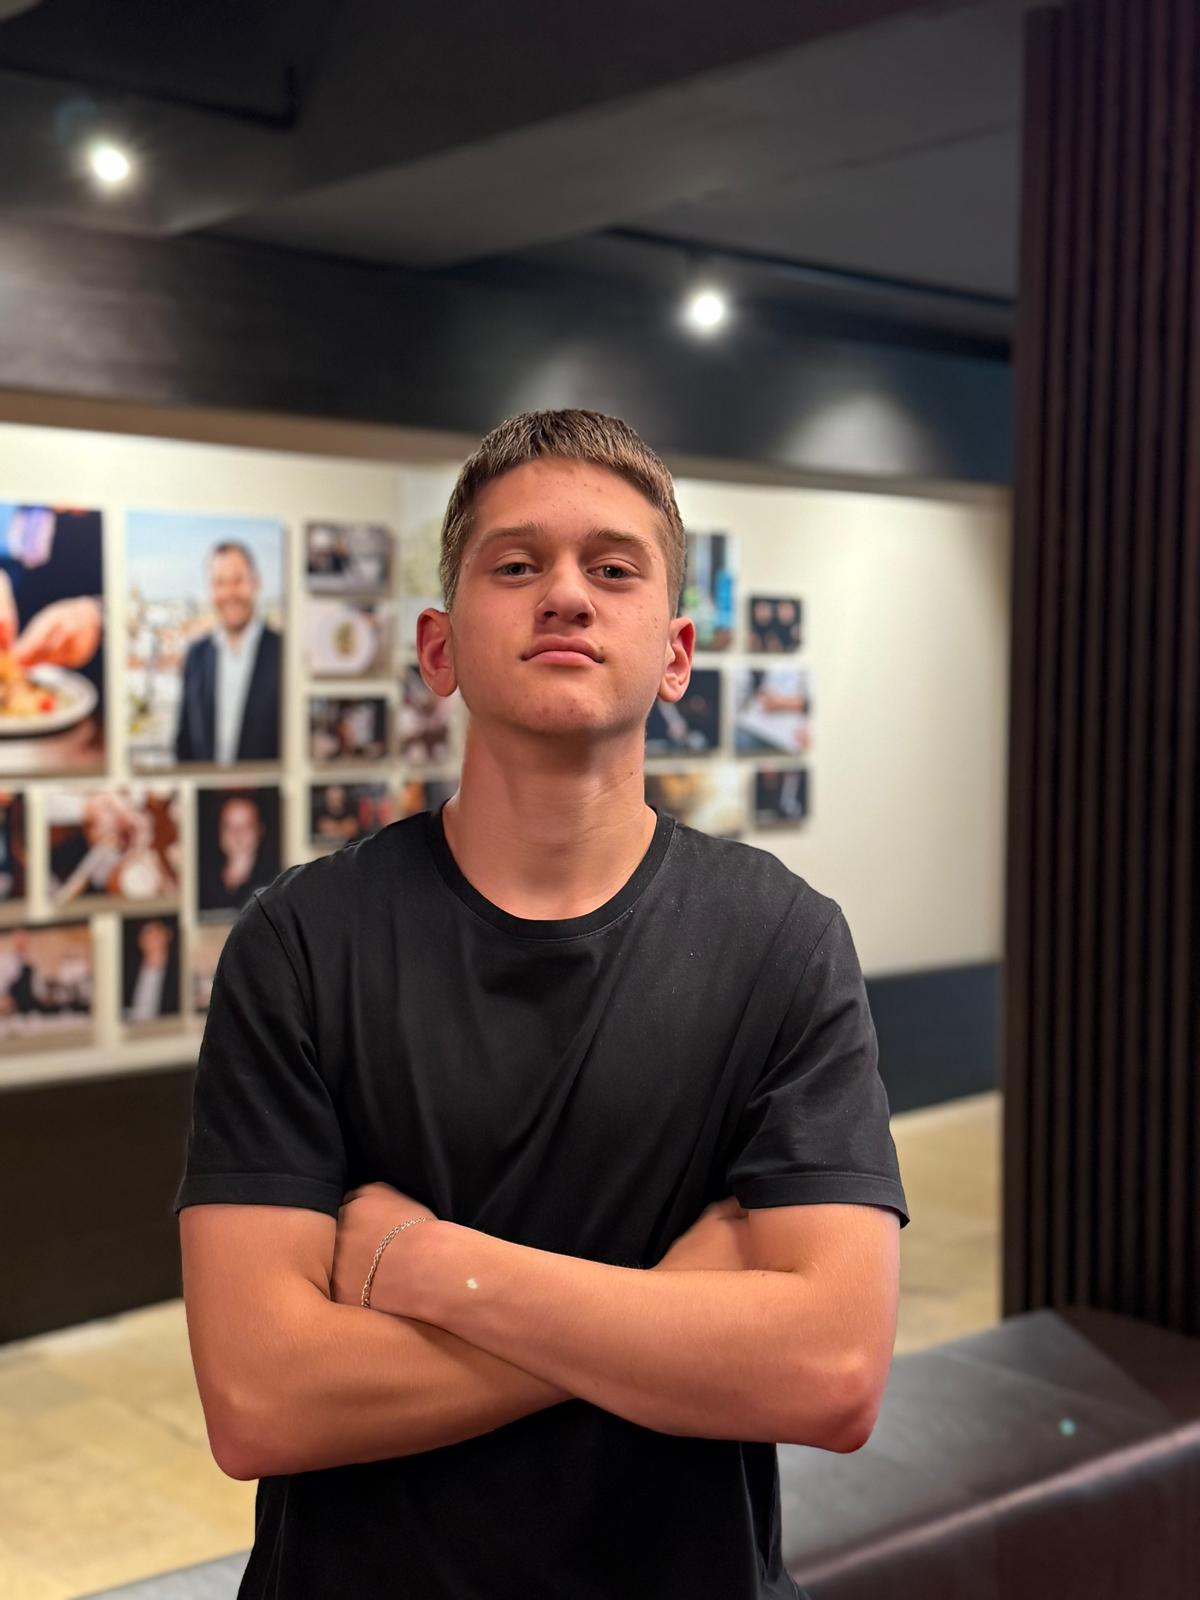
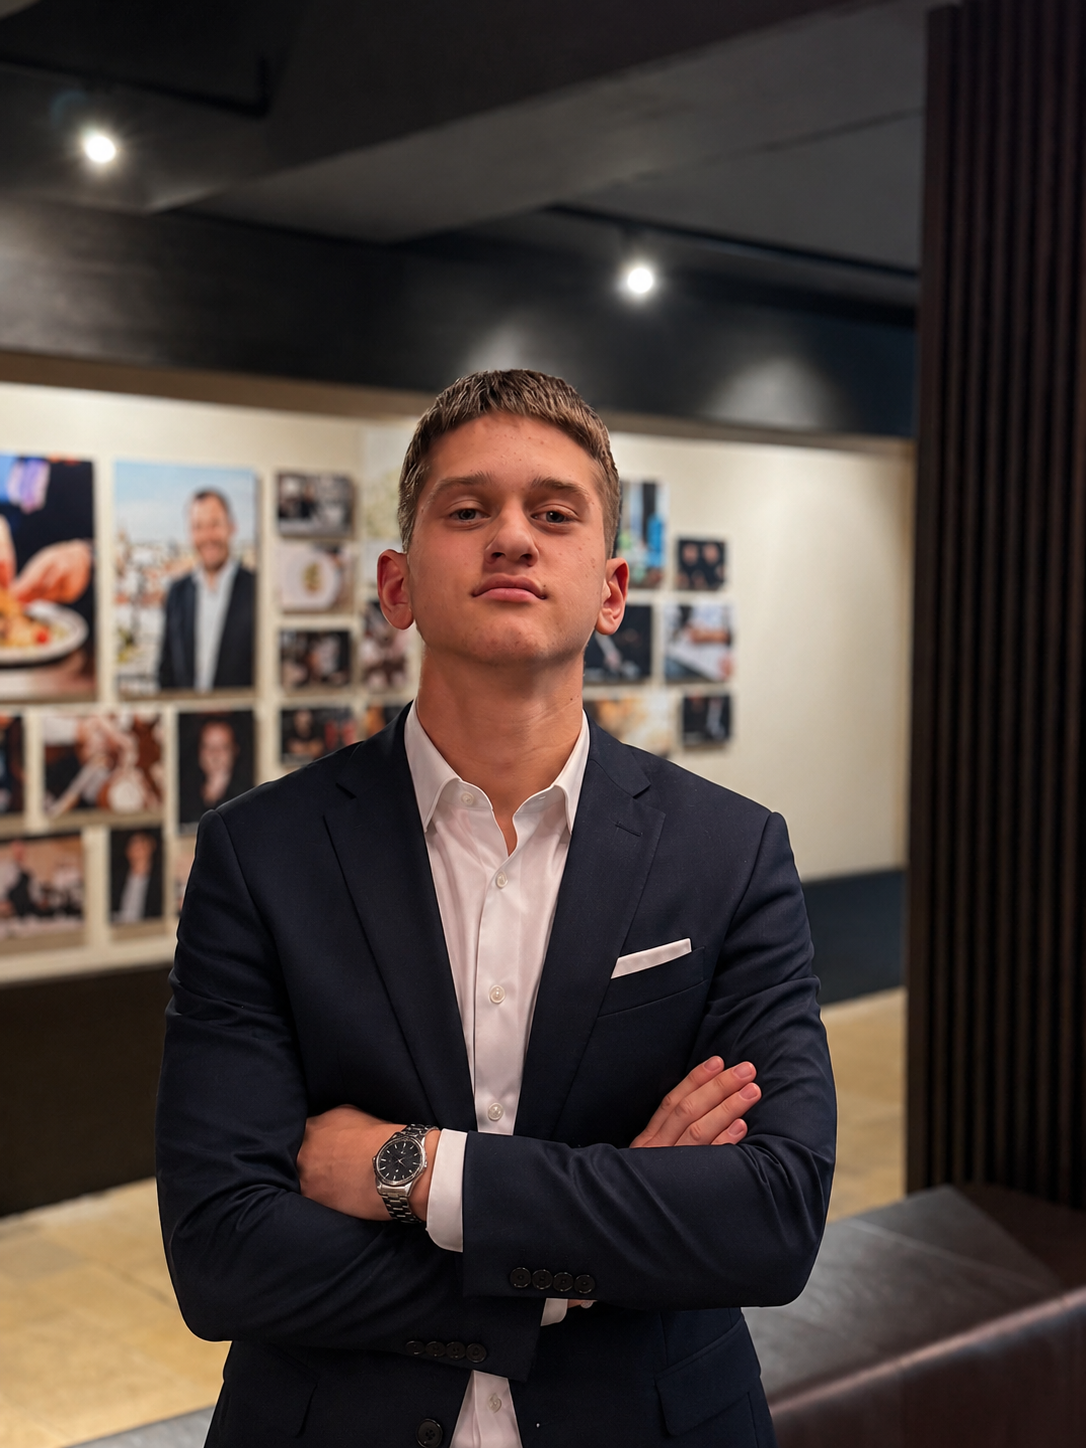
chore: include remaining modified assets and components

diff --git a/components/cycling-word.tsx b/components/cycling-word.tsx
@@ -4,8 +4,8 @@ import { useEffect, useState } from "react";
 import { AnimatePresence, motion } from "motion/react";
 
 const words = ["Stillstand.", "Durchschnitt.", "Ausreden."];
-const STAND_MS = 5000;
-const TRANSITION_S = 0.6;
+const STAND_MS = 5500;
+const TRANSITION_S = 0.85;
 
 export default function CyclingWord() {
   const [index, setIndex] = useState(0);
@@ -24,10 +24,9 @@ export default function CyclingWord() {
       <AnimatePresence mode="wait" initial={false}>
         <motion.span
           key={words[index]}
-          initial={{ y: 14, opacity: 0, filter: "blur(8px)" }}
-          animate={{ y: 0,   opacity: 1, filter: "blur(0px)" }}
-          exit={{    y: -14, opacity: 0, filter: "blur(8px)" }}
-          transition={{ duration: TRANSITION_S, ease: [0.16, 1, 0.3, 1] }}
+          initial={{ y: 28, opacity: 0 }}
+          animate={{ y: 0, opacity: 1, transition: { duration: TRANSITION_S, ease: [0.22, 1, 0.36, 1] } }}
+          exit={{ y: -28, opacity: 0, transition: { duration: 0.22, ease: [0.4, 0, 1, 1] } }}
           className="font-serif italic font-normal inline-block"
         >
           {words[index]}

diff --git a/components/copystudio-logo.tsx b/components/copystudio-logo.tsx
@@ -1,9 +1,9 @@
 export default function CopyStudioLogo() {
   return (
     <img
-      src="/images/copystudio-media-logo.png"
-      alt="CopyStudio MEDIA"
-      style={{ height: "30px", width: "auto", objectFit: "contain" }}
+      src="/images/logo-copystudio.png"
+      alt="CopyStudio Web"
+      style={{ height: "110px", width: "auto", objectFit: "contain", marginTop: "-28px", marginBottom: "-28px" }}
     />
   );
 }
